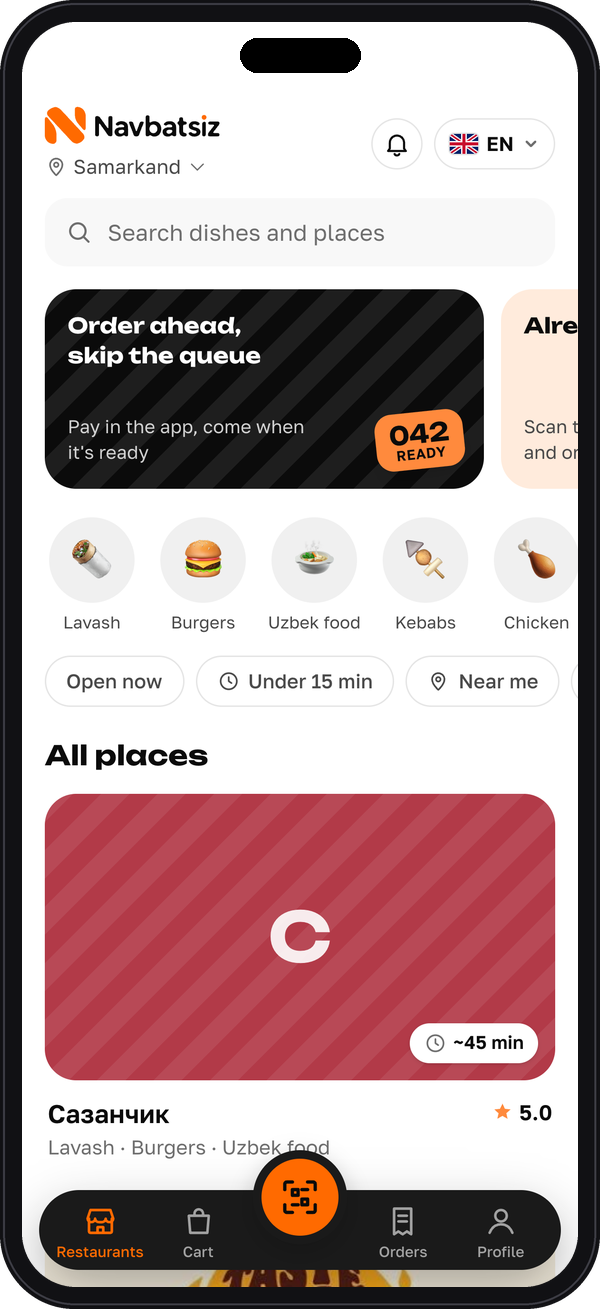
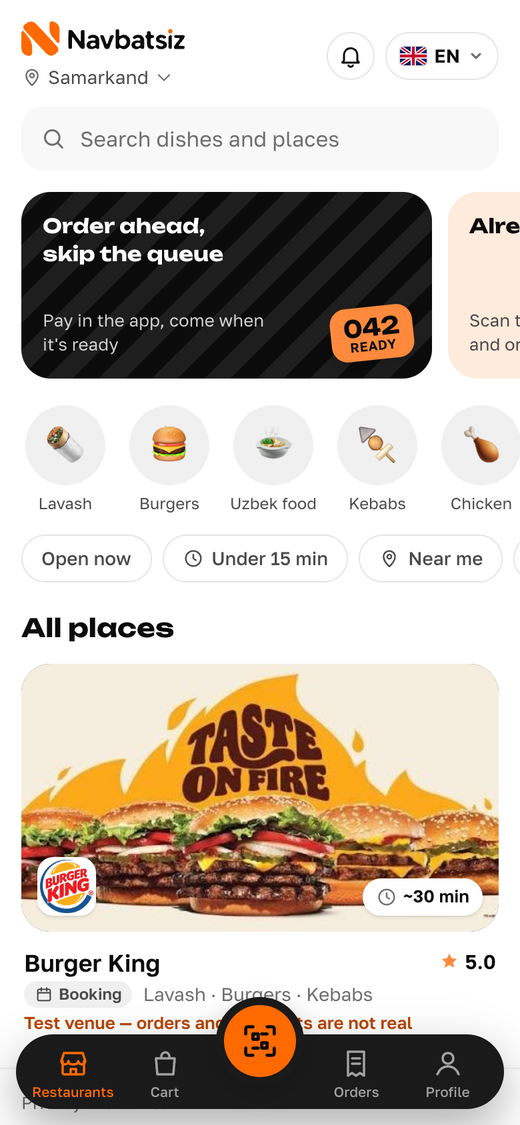
Profile: Navbatsiz now — live hall, booking on the plan, waiter web screens; company site v2; 4,000+ backend tests
Fresh screens of the live navbatsiz.app (catalog, venue with the live hall, booking on the plan) and a new walkthrough
of business.navbatsiz.app v2. The company site link, its libraries and the stack chips match what runs today.

diff --git a/README.md b/README.md
@@ -12,7 +12,7 @@
 
 - **I ship whole products, not just tickets.** Navbatsiz below is mine end to end: guest app, staff Telegram bot,
   owner cabinet, payments, server, backups and CI/CD.
-- **I write tested code.** 3,400+ backend tests on PostgreSQL; every push to `main` passes CI and a health check before it goes live.
+- **I write tested code.** 4,000+ backend tests on PostgreSQL and 370+ web tests; every push to `main` passes CI and a health check before it goes live.
 - **I handle money and concurrency carefully.** Payme and Click payments with refunds, orders guarded by row and advisory locks.
 - **I build for real people in real languages.** Interfaces in Uzbek (Latin and Cyrillic), Russian and English.
 - Almost 2 years of commercial experience at Osiyo Tech · Computer Science student · open to remote work.
@@ -28,23 +28,26 @@
 </td>
 <td width="66%" valign="top">
 
-**[navbatsiz.app](https://navbatsiz.app)** · [company site](https://navbatsiz-site.vercel.app) · private repository
+**[navbatsiz.app](https://navbatsiz.app)** · [company site](https://business.navbatsiz.app) · private repository
 
 A food pre-order and table-ordering platform for cafés in Uzbekistan. Guests order and pay
 from their phone and pick up by number, or scan the QR code on the table and order from their seat.
-Staff get every order in Telegram, on the kitchen screen and on a TV board.
+Staff get every order in Telegram, on their own web screens, on the kitchen screen and on a TV board.
 
 - 📱 **Guest app**, also a Telegram Mini App: catalog, cart, live order status, SMS sign-in,
   one-time pickup QR, an open bill at the table, 4 languages
-- 🪑 **Bookings** on a floor plan of the hall; waiter shifts, zones and order routing
-- 🤖 **Telegram bot** for staff: live order cards, waiter calls, menu import from text, Excel
-  or a photo of a paper menu (Claude API)
+- 🪑 **Live hall**: the venue's own floor plan with free and taken tables and guest counts,
+  refreshed every 30 s; guests book a table right on the plan and get a booking ticket
+- 🧑🍳 **Waiter web screens**: the hall as tiles, calls answered in one tap, payment in four taps,
+  the check beside the menu while ordering; shifts, zones and order routing
+- 🤖 **Telegram bot** for staff: live order cards, waiter calls that open an order for the guest who called,
+  menu import from text, Excel or a photo of a paper menu (Claude API)
 - 📊 **Owner cabinet**: menu, printable QR signs, roles and permissions, reports with Excel
   export, an action log, feature plans per venue
 - 💳 Payme / Click payments and refunds · 🍳 kitchen display · 📺 TV board
-- 🛡 3,400+ tests · CI/CD on GitHub Actions · encrypted nightly backups
+- 🛡 4,000+ backend and 370+ web tests · CI/CD on GitHub Actions · encrypted nightly backups
 
-`Next.js 16` `React 19` `TypeScript` `Django 5 / DRF` `PostgreSQL` `Docker Compose` `Caddy` `Cloudflare` `Vercel`
+`Next.js 16` `React 19` `TypeScript` `Django 5 / DRF` `PostgreSQL` `Redis` `Docker Compose` `Cloudflare Tunnel & R2` `Vercel`
 
 </td>
 </tr>
@@ -52,11 +55,19 @@ Staff get every order in Telegram, on the kitchen screen and on a TV board.
 
 <table>
 <tr>
-<td width="25%" align="center" valign="top"><img src="assets/nb_home.png" alt="Navbatsiz home screen" width="100%"><br><sub>Places, categories, filters</sub></td>
-<td width="25%" align="center" valign="top"><img src="assets/nb_venue.png" alt="Navbatsiz venue page" width="100%"><br><sub>Venue: ready time, map, booking, menu</sub></td>
-<td width="50%" align="center" valign="top"><img src="assets/site.gif" alt="Navbatsiz company website" width="100%"><br><sub>Company website: Next.js 16, Motion, three.js</sub></td>
+<td width="33%" align="center" valign="top"><img src="assets/nb_home.png" alt="Navbatsiz home screen" width="100%"><br><sub>Catalog: places, categories, filters</sub></td>
+<td width="33%" align="center" valign="top"><img src="assets/nb_venue.png" alt="Navbatsiz venue page with the live hall" width="100%"><br><sub>Venue: ready time, booking ticket, live hall</sub></td>
+<td width="33%" align="center" valign="top"><img src="assets/nb_book.png" alt="Navbatsiz table booking on the hall plan" width="100%"><br><sub>Booking: pick a table on the plan</sub></td>
+</tr>
+<tr>
+<td colspan="3" align="center"><sub>Live screens of navbatsiz.app. Burger King is our own test venue, not a customer.</sub></td>
 </tr>
 </table>
+
+<p align="center">
+  <a href="https://business.navbatsiz.app"><img src="assets/site.gif" alt="Navbatsiz company website" width="100%"></a><br>
+  <sub>Company website: six scenes you can touch · Next.js 16, React 19, a hand-written tween kit, Lenis</sub>
+</p>
 
 ---
 
